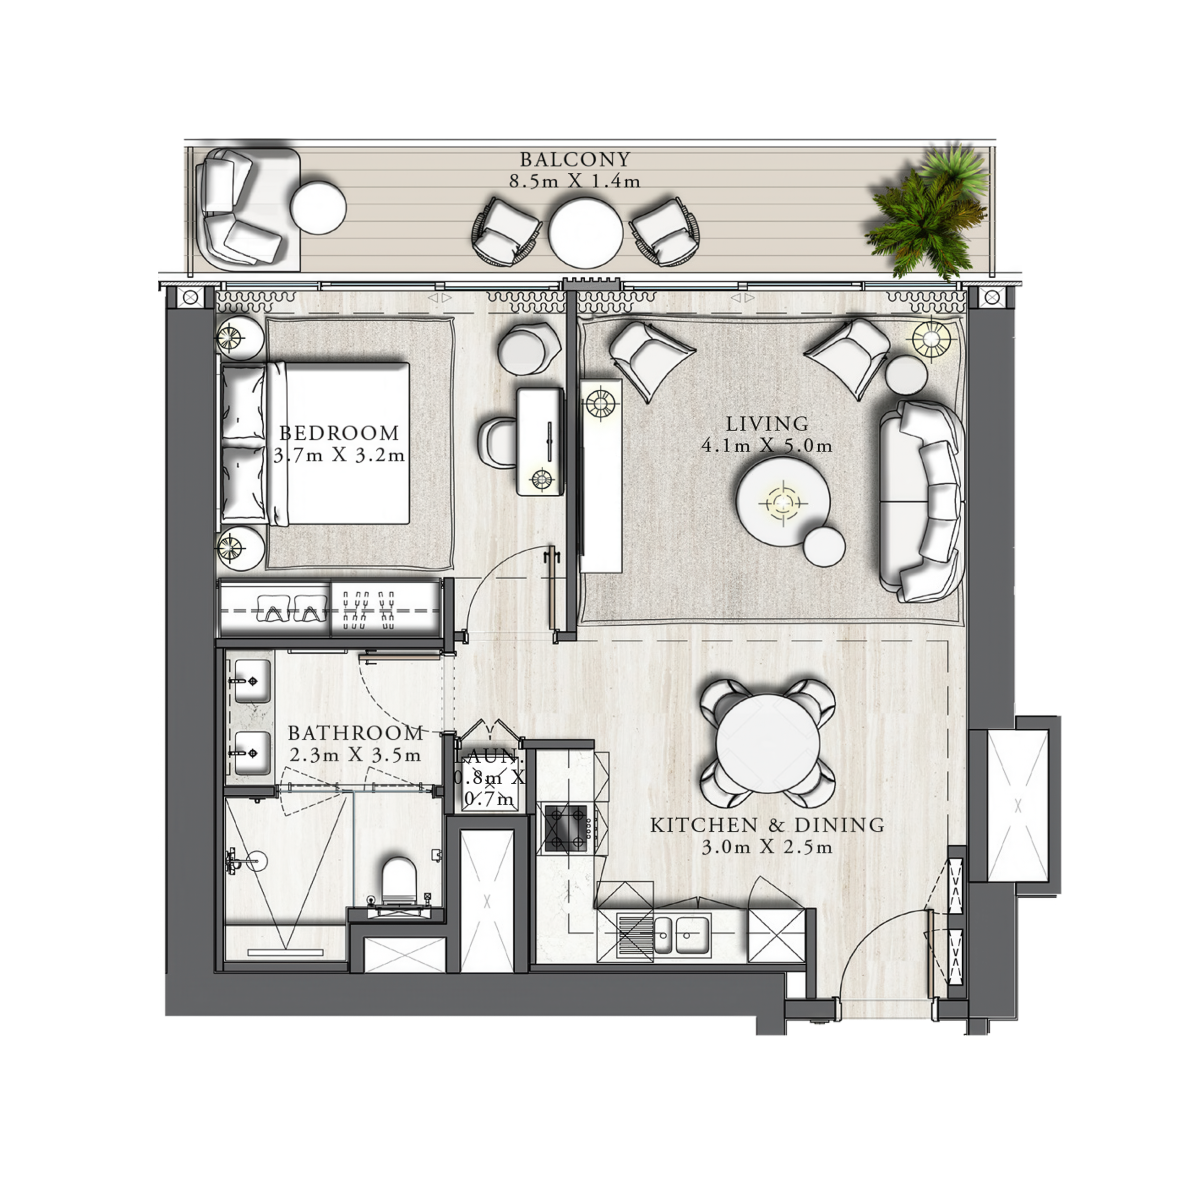
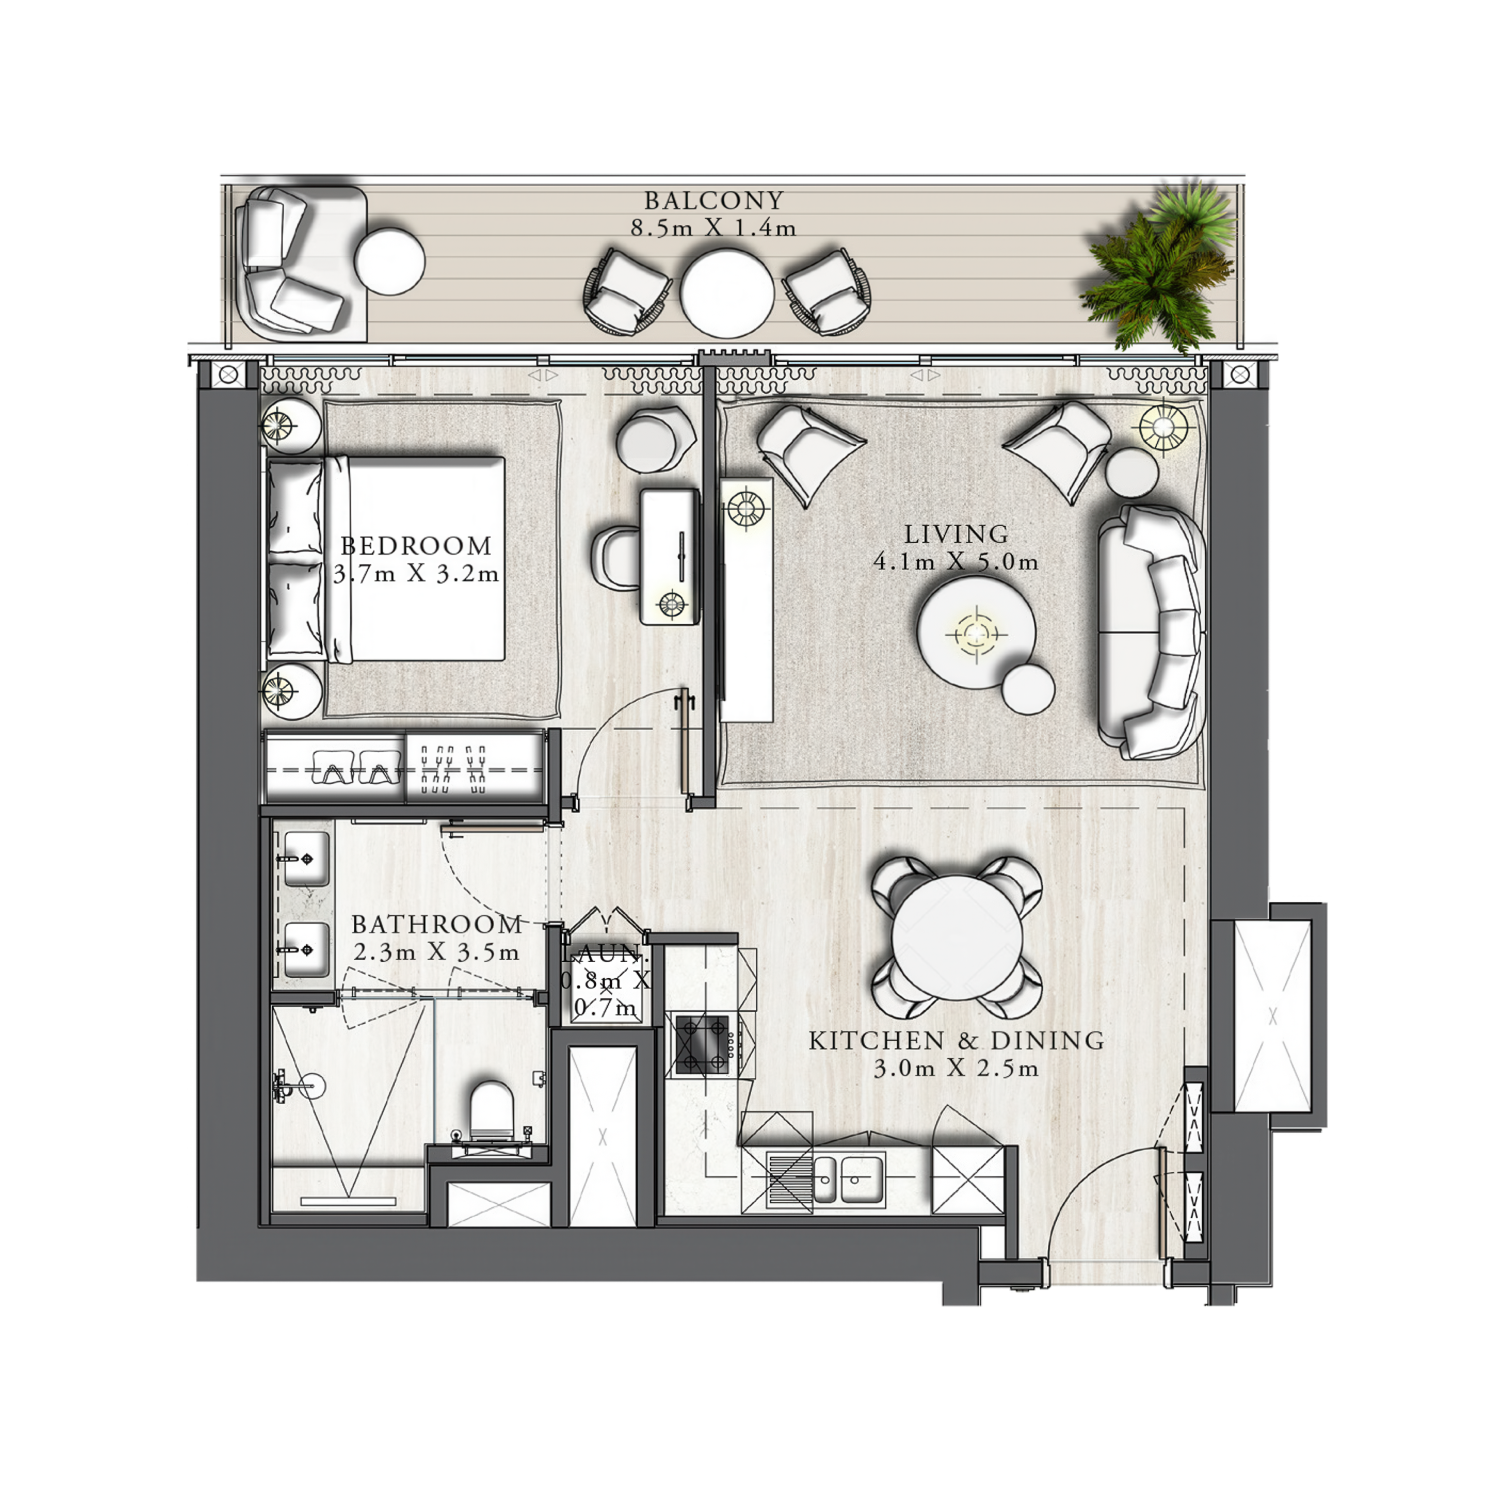
img size change floorpop

Changed region(s): [[0.1233, 0.0925, 0.8942, 0.8942], [0.7092, 0.7708, 0.74, 0.8017]]

diff --git a/src/scss/modal360/components/popups.scss b/src/scss/modal360/components/popups.scss
@@ -431,6 +431,7 @@ body {
                 img {
                     width: 100%;
                     height: 100%;
+                    object-fit: contain;
                 }
             }
             &__close {
@@ -487,14 +488,14 @@ body {
 
         &-wrap {
             position: absolute;
-            inset: 4rem;
+            inset:5rem 4rem 4rem 4rem;
             & > * {
                 width: 100%;
                 height: 100%;
                 object-fit: contain;
             }
             @media(max-width:576px){
-                inset: 35px;
+                inset:50px 35px 35px 35px;
             }
         }
 
